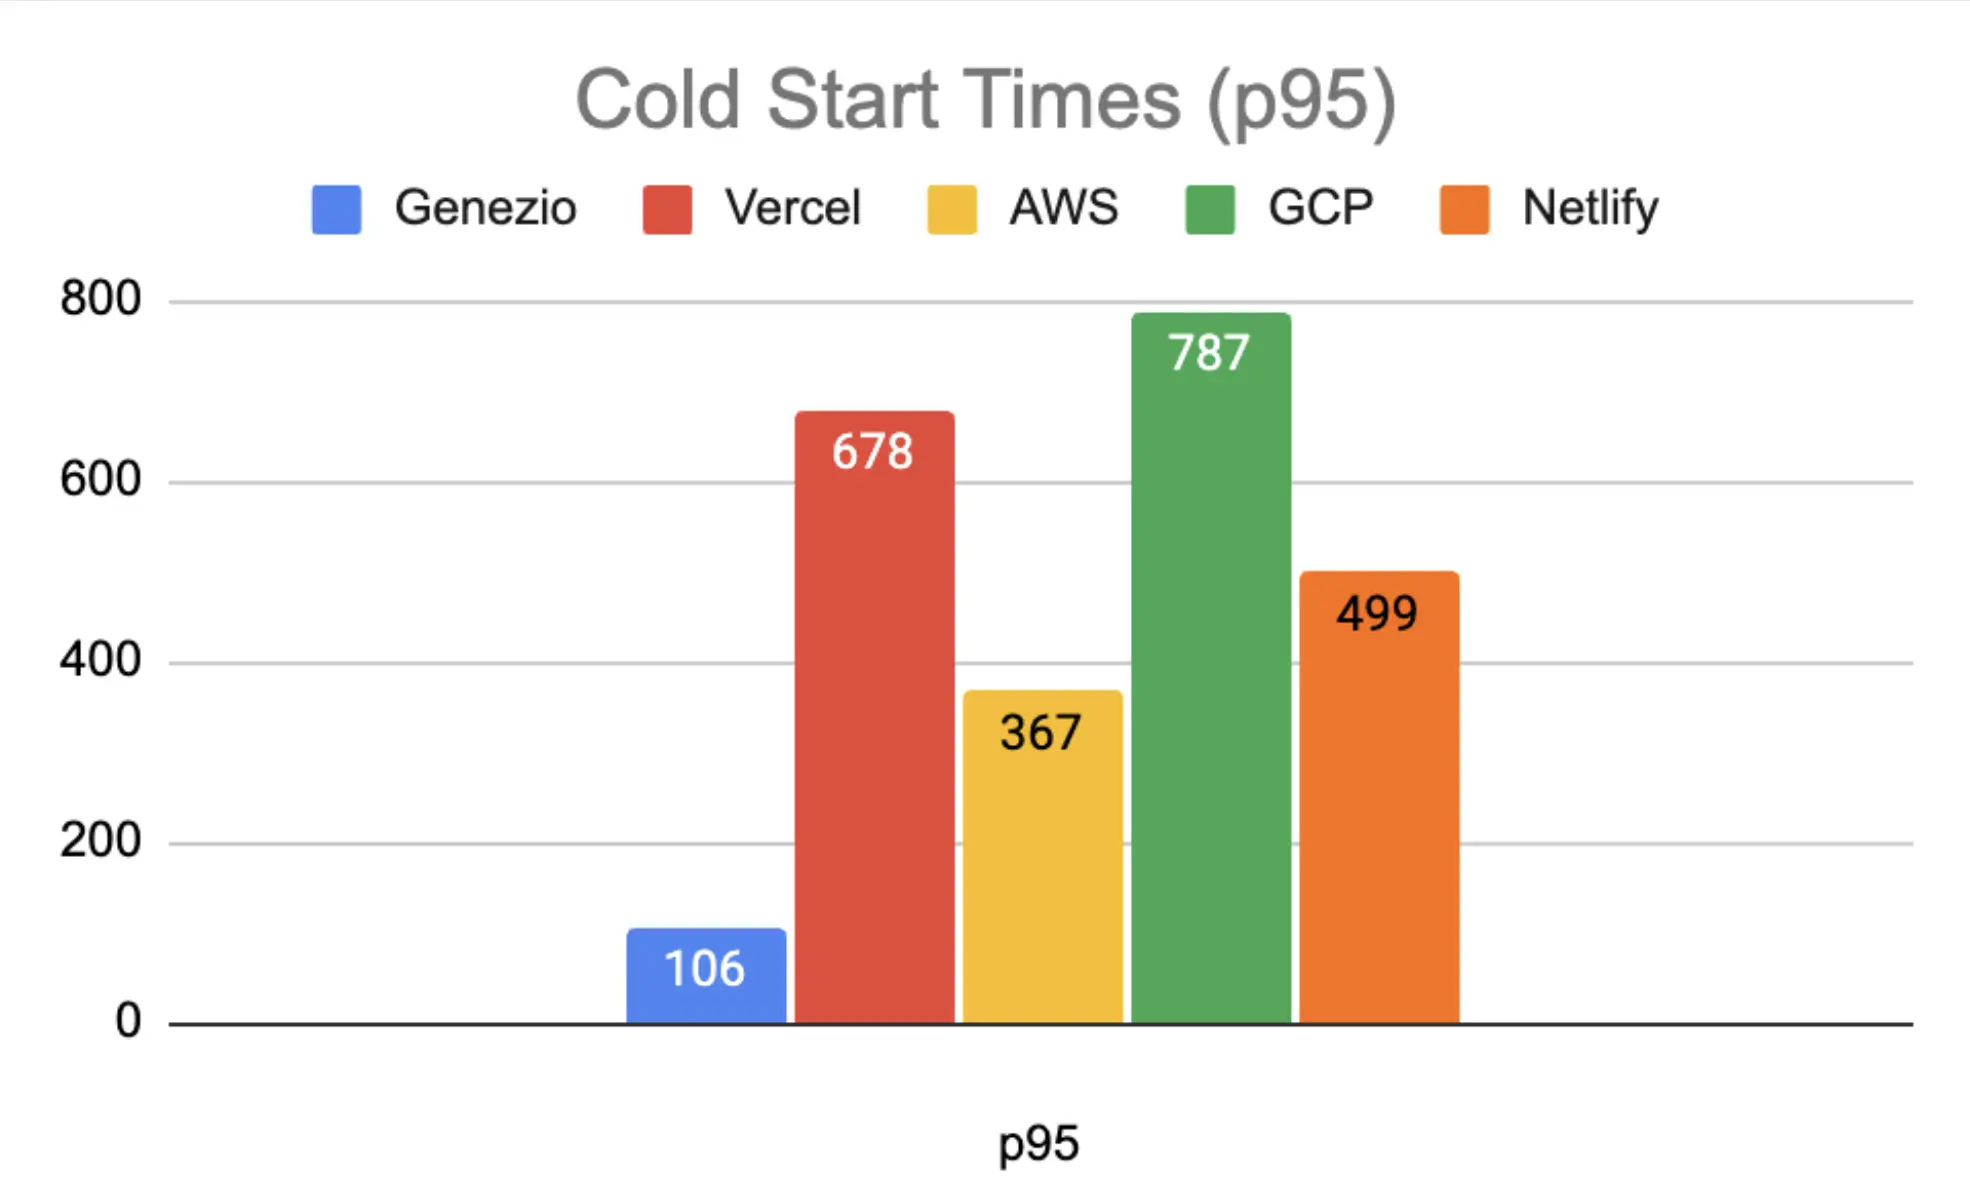
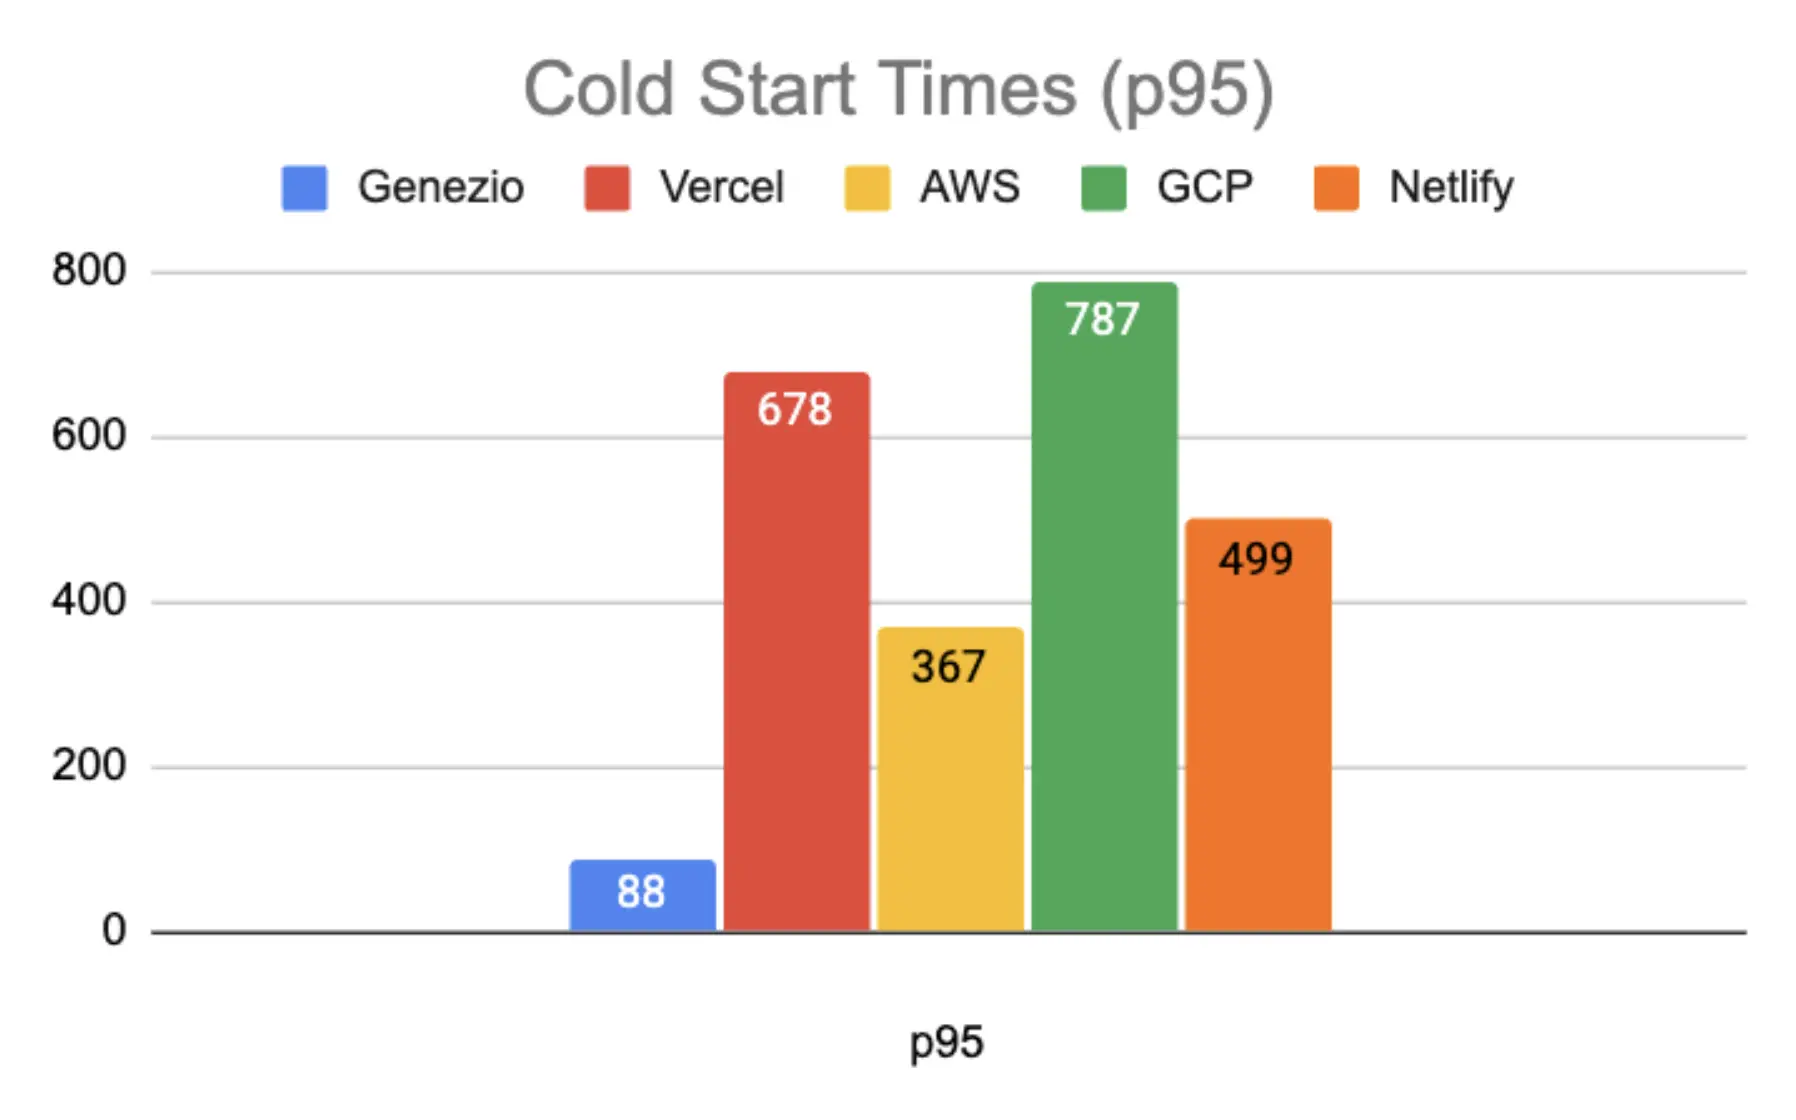
Updated faas times

diff --git a/content/posts/genezio_functions_reduce_cold_start_times.md b/content/posts/genezio_functions_reduce_cold_start_times.md
@@ -28,7 +28,7 @@ Better cold start performance translates to a better user experience, as applica
 
 **Key takeaways:**
 
-- For Genezio Functions, the cold start response times are significantly lower than those of other platforms. The distribution is tight, and the median is around 78ms, indicating very fast cold start times.
+- For Genezio Functions, the cold start response times are significantly lower than those of other platforms. The distribution is tight, and the median is around 54ms, indicating very fast cold start times.
 
 - Compared to GCP, Vercel, and Netlify, Genezio has a narrower distribution (the height of the box), indicating reliability and predictability.
 
